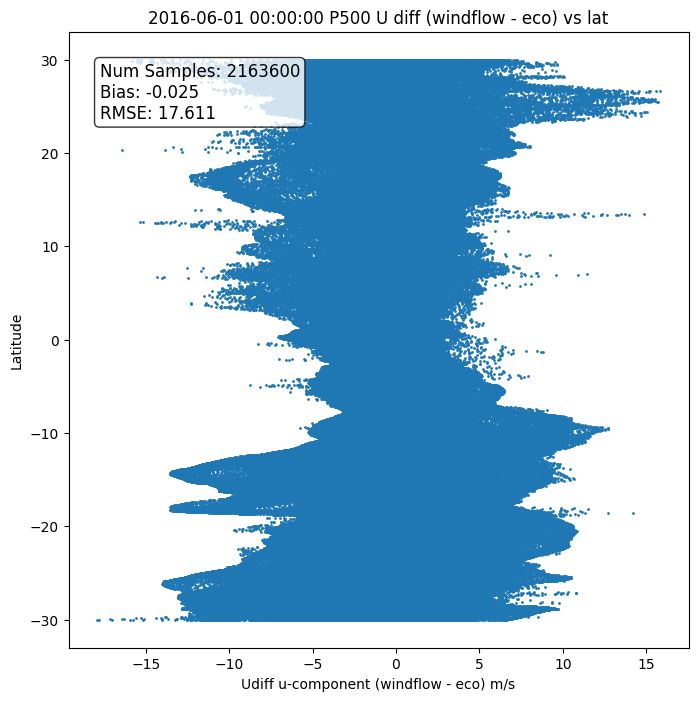
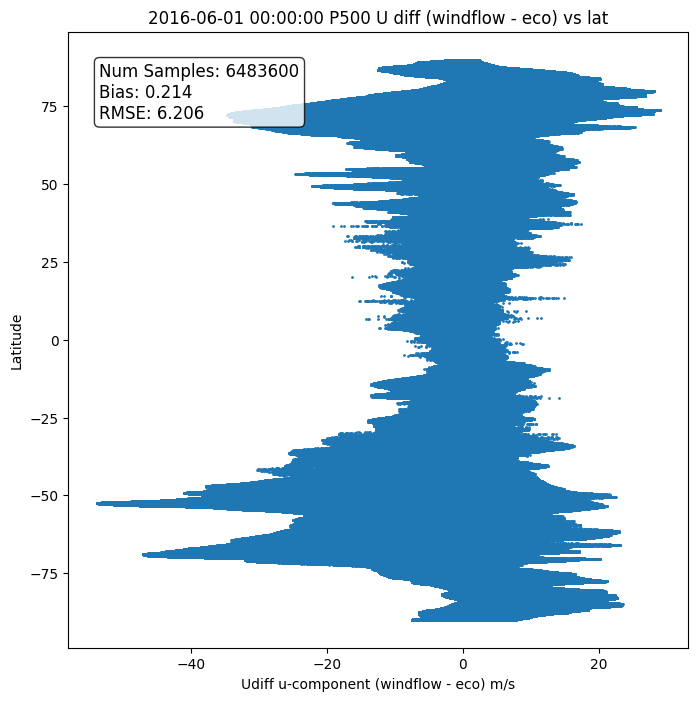
plot improvements

diff --git a/plotting.py b/plotting.py
@@ -22,22 +22,27 @@ def flow_quiver_plot(u, v, u2, v2, x=None, y=None, ax=None,
                      size=10, cmap='jet', colorbar=False):
     
     intensity = (u**2 + v**2) ** 0.5
+    intensity_1 = (u2**2 + v2**2) ** 0.5
 
     u_l = downsample(u, down)
     v_l = downsample(v, down)
     u2_l = downsample(u2, down)
     v2_l = downsample(v2, down)
 
-    intensity_l = (u_l ** 2 + v_l**2) ** 0.5
-
     if (x is None) or (y is None):
         x = np.arange(0, u_l.shape[1]) * down + down/2.
         y = np.arange(0, v_l.shape[0]) * down + down/2.
+        x1 = np.arange(0, u2_l.shape[1]) * down + down/2.
+        y1 = np.arange(0, v2_l.shape[0]) * down + down/2.
         X, Y = np.meshgrid(x, y)
+        X1,Y1 = np.meshgrid(x1,y1)
     else:
         x = downsample(x, down)
         y = downsample(y, down)
+        x1 = downsample(x,down)
+        y1 = downsample(y,down)
         X, Y = x, y
+        X1,Y1 = np.meshgrid(x1,y1)
 
     if not ax:
         ratio = 1. * u.shape[0] / u.shape[1]
@@ -51,12 +56,12 @@ def flow_quiver_plot(u, v, u2, v2, x=None, y=None, ax=None,
         ax1, ax2 = ax
     
     if vmax is None:
-        vmax = max(np.nanmax(intensity), np.nanmax(intensity))
+        vmax = max(np.nanmax(intensity),np.nanmax(intensity_1),)
     if vmin is None:
-        vmin = min(np.nanmin(intensity), np.nanmin(intensity))
+        vmin = min(np.nanmin(intensity),np.nanmin(intensity_1))
     
     im1 = ax1.imshow(intensity, origin='upper', cmap=cmap, vmax=vmax, vmin=vmin)
-    im2 = ax2.imshow(intensity, origin='upper', cmap=cmap, vmax=vmax, vmin=vmin)
+    im2 = ax2.imshow(intensity_1, origin='upper', cmap=cmap, vmax=vmax, vmin=vmin)
     
     if colorbar:
         fig.colorbar(im1, ax=ax1, label='Wind Speed (m/s)', aspect=50, pad=0.01, shrink=0.3)
@@ -64,11 +69,11 @@ def flow_quiver_plot(u, v, u2, v2, x=None, y=None, ax=None,
         
     scale = 150
     try:
-        ax1.quiver(X, Y, v_l, u_l, latlon=latlon, scale_units='inches', scale=scale)
-        ax2.quiver(X, Y, v2_l, u2_l, latlon=latlon, scale_units='inches', scale=scale)
+        ax1.quiver(X, Y, u_l, v_l, latlon=latlon, scale_units='inches', scale=scale)
+        ax2.quiver(X1, Y1, u2_l, v2_l, latlon=latlon, scale_units='inches', scale=scale)
     except: 
-        ax1.quiver(X, Y, v_l, u_l, scale_units='inches', scale=scale)
-        ax2.quiver(X, Y, v2_l, u2_l, scale_units='inches', scale=scale)
+        ax1.quiver(X, Y, u_l, v_l, scale_units='inches', scale=scale)
+        ax2.quiver(X1, Y1, u2_l, v2_l, scale_units='inches', scale=scale)
         
     for ax in [ax1, ax2]:
         if hasattr(ax, 'xaxis'):

diff --git a/scatter.py b/scatter.py
@@ -8,6 +8,7 @@ from scipy.interpolate import interpn
 from eco1280_loader import load_eco1280
 import netCDF4 as nc
 from windflow.datasets import utils
+
 def main():
 
     # Load ECO1280 data
@@ -25,9 +26,10 @@ def main():
         w_u = f.variables['uwind'][:]
         w_v = f.variables['vwind'][:]
     assert np.all(lat == w_lat)
-    
+
     expanded_lat = np.tile(lat, (3600, 1)).T
-    mask = (expanded_lat <= 30) & (expanded_lat >= -30) # Mask the region of interest, as well as the minimum humidity value.
+    expanded_lon = np.tile(lon, (1801,1))
+    mask = (expanded_lat <= 90) & (expanded_lat >= -90) # Mask the region of interest, as well as the minimum humidity value.
 
     # Select masked regions
     eco_u = eco_u[mask]
@@ -42,7 +44,7 @@ def main():
 
     # U component plots
     ax = density_scatter(x, y, s=1, bins=150)
-    ax.set_title("2016-06-01 00:00:00 P500 U component density -60 to 60 lat")
+    ax.set_title("2016-06-01 00:00:00 P500 U component density -90 to 90 lat")
     ax.set_xlabel('ECO1280 u-component m/s')
     ax.set_ylabel('Windflow u-component m/s')
     plt.savefig("scatter_density_ucomp_500.png", bbox_inches='tight')
@@ -53,6 +55,13 @@ def main():
     ax.set_xlabel('Udiff u-component (windflow - eco) m/s')
     ax.set_ylabel('Latitude')
     plt.savefig("scatter_lat_ucomp_500.png", bbox_inches='tight')
+
+    udiff = (y - x)
+    ax = scatter(udiff, expanded_lon[mask], axline=False)
+    ax.set_title("2016-06-01 00:00:00 P500 U diff (windflow - eco) vs lon")
+    ax.set_xlabel('Udiff u-component (windflow - eco) m/s')
+    ax.set_ylabel('Longitude')
+    plt.savefig("scatter_lon_ucomp_500.png", bbox_inches='tight')
 
     # Calculate RMSE of v component
     x = eco_v
@@ -75,12 +84,19 @@ def main():
     ax.set_ylabel('Latitude')
     plt.savefig("scatter_lat.vcomp_500.png", bbox_inches='tight')
 
+    vdiff = (y - x)
+    ax = scatter(vdiff, expanded_lon[mask], axline=False)
+    ax.set_title("2016-06-01 00:00:00 P500 V diff (windflow - eco) vs lon")
+    ax.set_xlabel('Vdiff v-component (windflow - eco) m/s')
+    ax.set_ylabel('Longitude')
+    plt.savefig("scatter_lon.vcomp_500.png", bbox_inches='tight')
+
 def scatter(x, y, s=1, textbox=(0, 0), axline=True):
     fig, ax = plt.subplots(figsize=(8, 8))
    
     num_samples = len(x)
-    bias = np.nanmean(y - x)
-    rmse = np.sqrt(np.nanmean((y - x)**2))
+    bias = np.nanmean(x)
+    rmse = np.sqrt(np.nanmean((x**2)))
     
     ax.scatter(x, y, s=s)
     xmin, xmax = ax.get_xlim()
